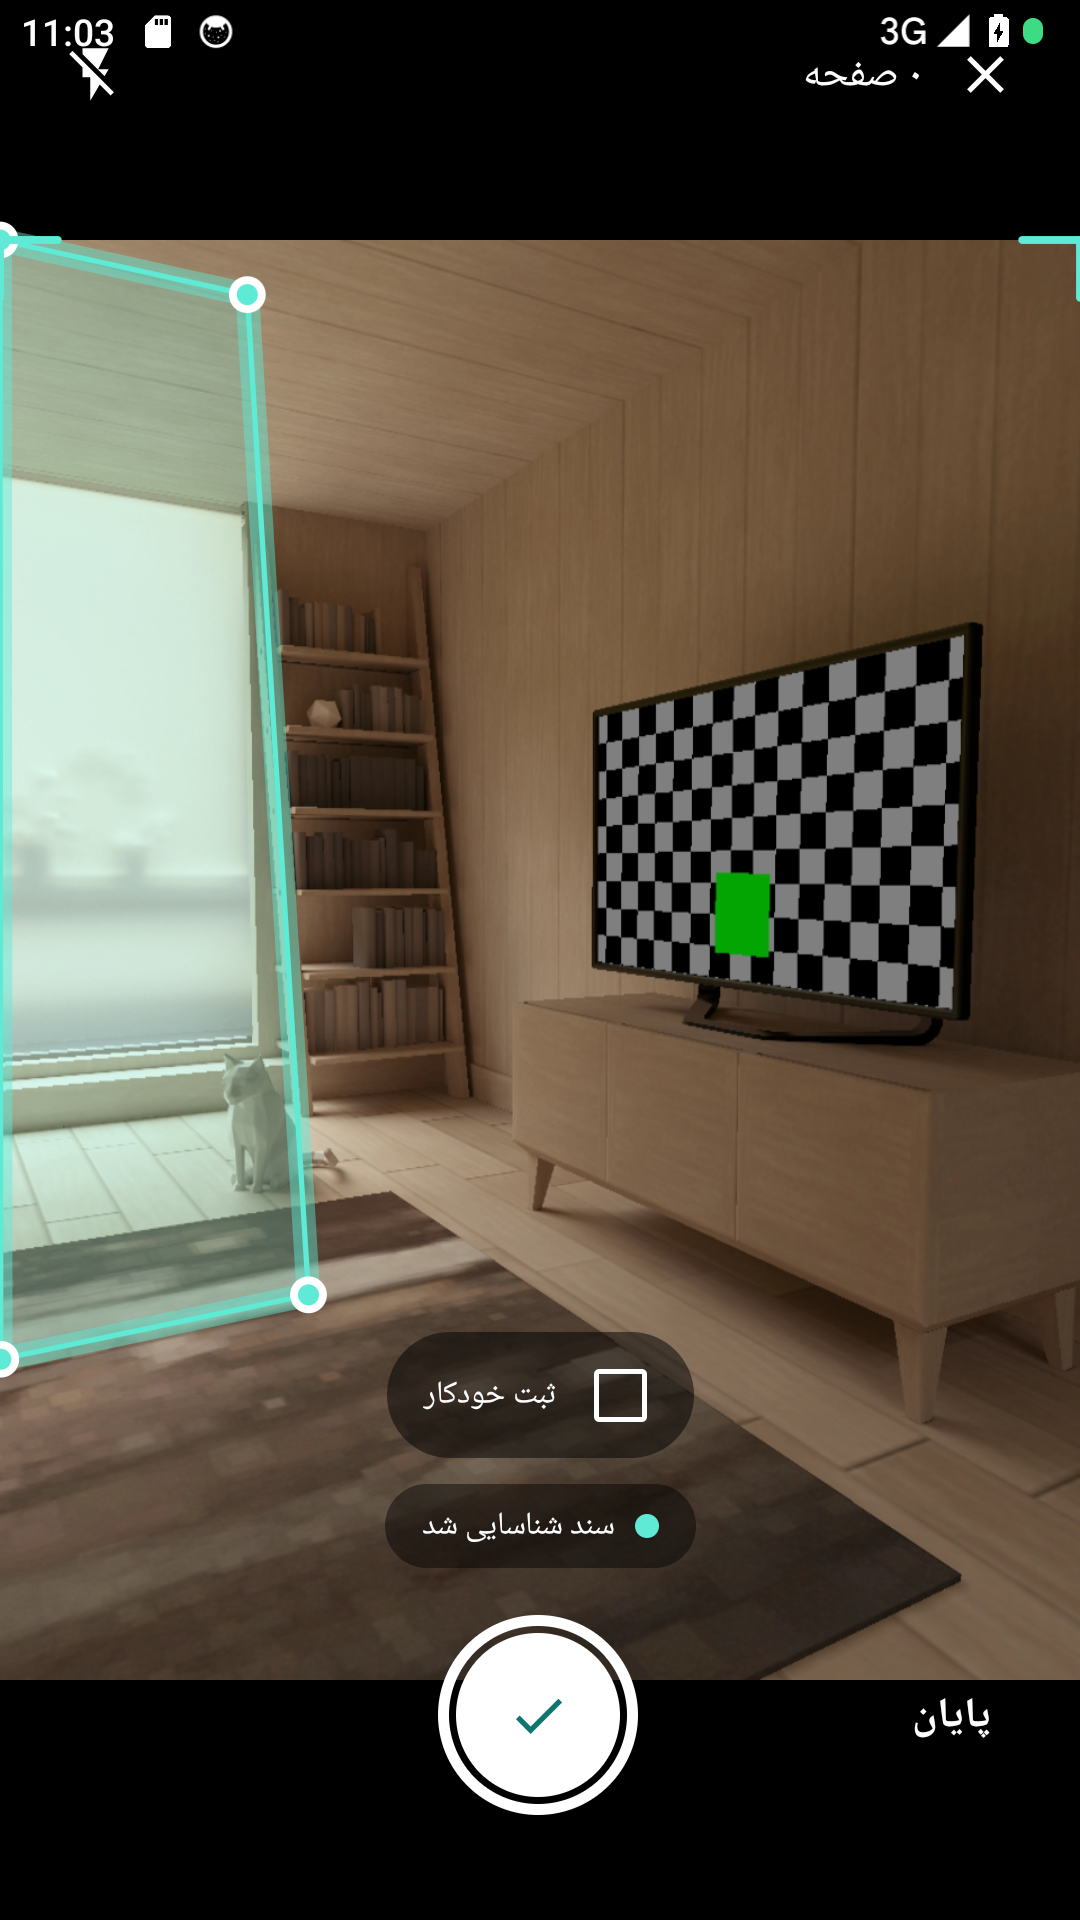
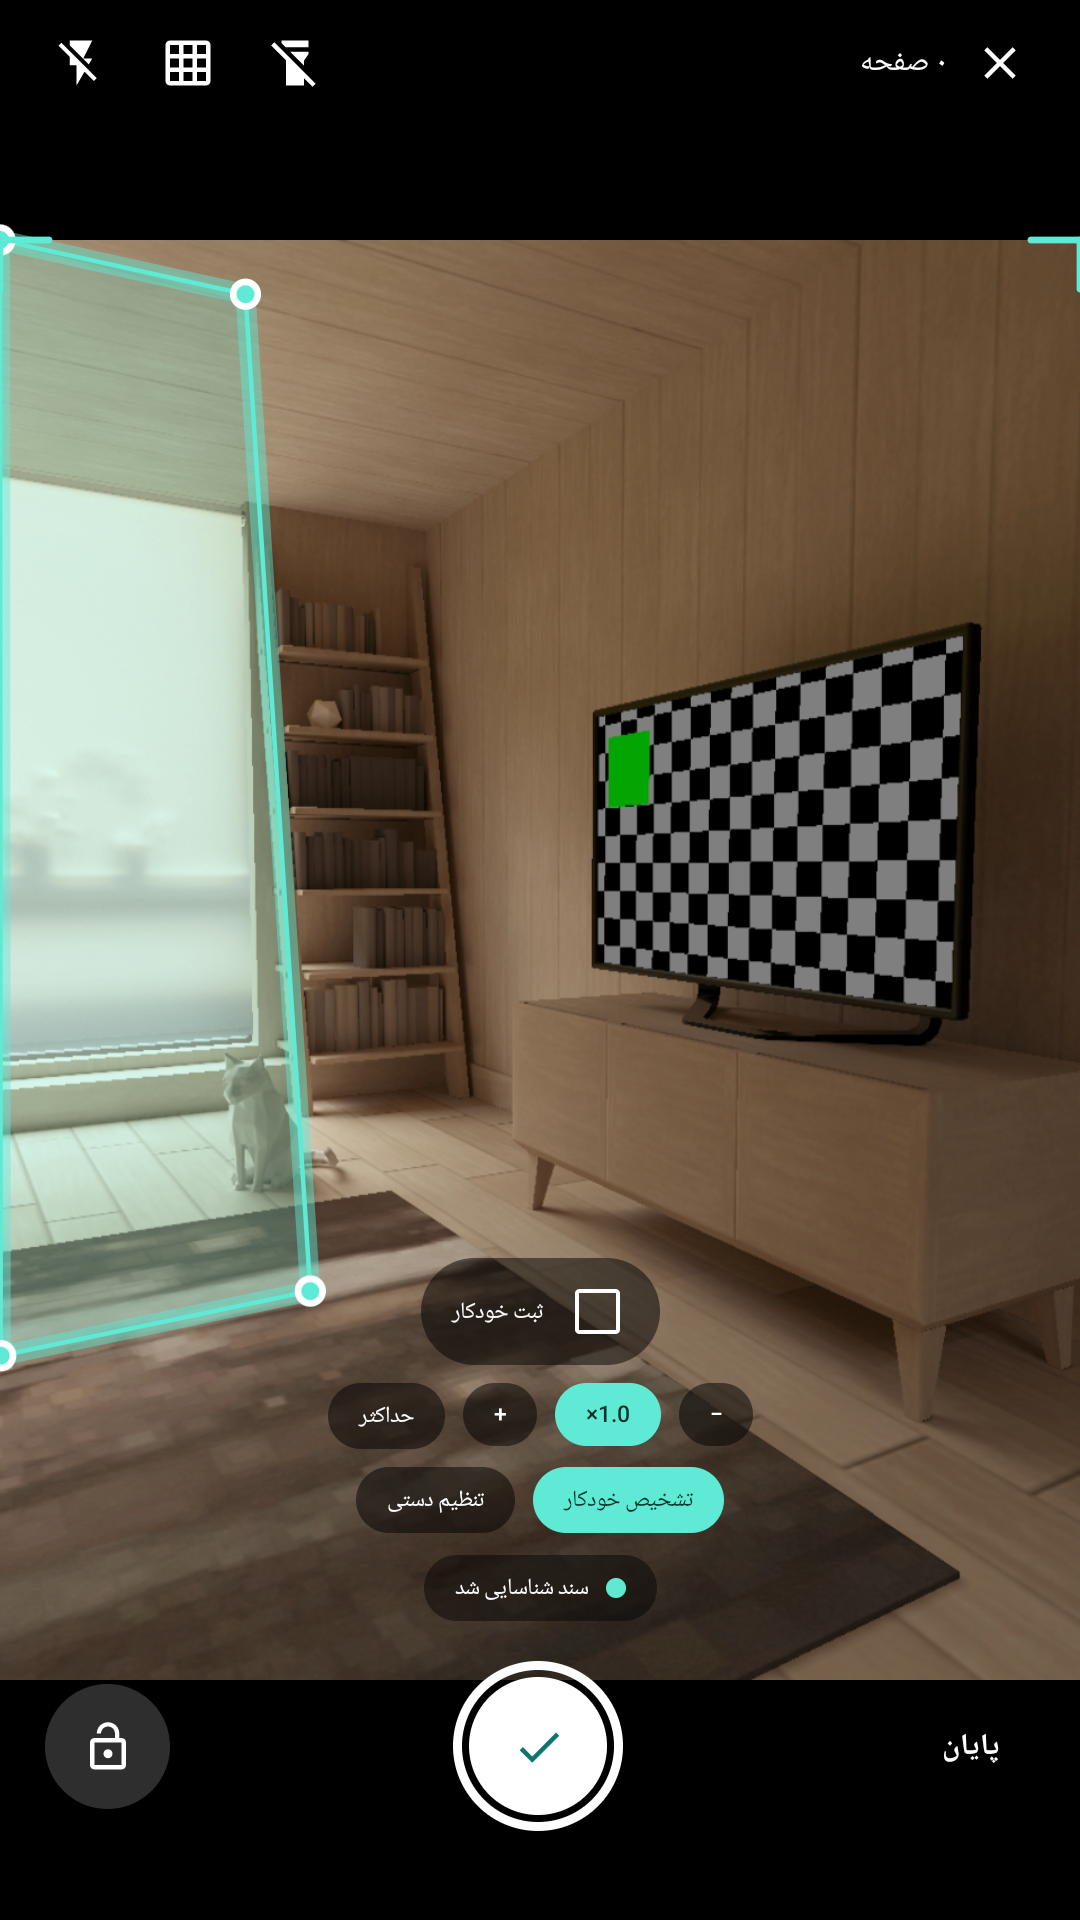
feat: camera zoom with saved level, torch, grid, freeze lock and manual modes

diff --git a/app/src/main/java/ir/scanfa/app/ui/CameraScreen.kt b/app/src/main/java/ir/scanfa/app/ui/CameraScreen.kt
@@ -39,6 +39,11 @@ import androidx.compose.material.icons.filled.AutoMode
 import androidx.compose.material.icons.filled.Check
 import androidx.compose.material.icons.filled.Close
 import androidx.compose.material.icons.filled.FlashOff
+import androidx.compose.material.icons.filled.FlashlightOn
+import androidx.compose.material.icons.filled.FlashlightOff
+import androidx.compose.material.icons.filled.GridOn
+import androidx.compose.material.icons.filled.Lock
+import androidx.compose.material.icons.filled.LockOpen
 import androidx.compose.material.icons.filled.FlashOn
 import androidx.compose.material3.Button
 import androidx.compose.material3.Checkbox
@@ -140,6 +145,11 @@ fun CameraScreen(vm: ScannerViewModel, nav: NavHostController, docId: String) {
     var frameAspect by remember { mutableFloatStateOf(1.5f) }
     var hits by remember { mutableIntStateOf(0) }
     var target by remember { mutableStateOf<List<Float>?>(null) }
+    var torchOn by remember { mutableStateOf(false) }
+    var gridOn by remember { mutableStateOf(false) }
+    var frozen by remember { mutableStateOf(false) }
+    var zoomRatio by remember { mutableFloatStateOf(vm.prefs.cameraZoom) }
+    var maxZoom by remember { mutableFloatStateOf(4f) }
 
     val camera = remember {
         LifecycleCameraController(context).apply {
@@ -167,9 +177,47 @@ fun CameraScreen(vm: ScannerViewModel, nav: NavHostController, docId: String) {
         }
     }
 
-    LaunchedEffect(manualMode) {
-        analyzer.enabled = !manualMode
-        if (manualMode) liveQuad = null
+    LaunchedEffect(manualMode, frozen) {
+        analyzer.enabled = !manualMode && !frozen
+        if (manualMode || frozen) liveQuad = null
+    }
+
+    DisposableEffect(camera) {
+        val observer = androidx.lifecycle.Observer<androidx.camera.core.ZoomState> { state ->
+            maxZoom = state.maxZoomRatio
+            zoomRatio = state.zoomRatio
+        }
+        try {
+            camera.zoomState.observe(lifecycleOwner, observer)
+        } catch (t: Throwable) {
+            // نادیدهگرفتنی
+        }
+        onDispose {
+            try {
+                camera.zoomState.removeObserver(observer)
+            } catch (t: Throwable) {
+                // نادیدهگرفتنی
+            }
+        }
+    }
+
+    LaunchedEffect(Unit) {
+        try {
+            camera.setZoomRatio(vm.prefs.cameraZoom)
+        } catch (t: Throwable) {
+            // نادیدهگرفتنی
+        }
+    }
+
+    fun applyZoom(value: Float) {
+        val targetZoom = value.coerceIn(1f, maxZoom.coerceAtLeast(1f))
+        zoomRatio = targetZoom
+        vm.prefs.cameraZoom = targetZoom
+        try {
+            camera.setZoomRatio(targetZoom)
+        } catch (t: Throwable) {
+            // نادیدهگرفتنی
+        }
     }
 
     val executor = remember { Executors.newSingleThreadExecutor() }
@@ -249,7 +297,7 @@ fun CameraScreen(vm: ScannerViewModel, nav: NavHostController, docId: String) {
     }
 
     LaunchedEffect(hits, autoCapture, capturing) {
-        if (autoCapture && !manualMode && !capturing && hits >= 5) {
+        if (autoCapture && !manualMode && !frozen && !capturing && hits >= 5) {
             hits = 0
             capture()
         }
@@ -278,6 +326,18 @@ fun CameraScreen(vm: ScannerViewModel, nav: NavHostController, docId: String) {
             )
         }
 
+        if (gridOn) {
+            Canvas(Modifier.fillMaxSize()) {
+                val c = Color.White.copy(alpha = 0.28f)
+                val w = size.width
+                val h = size.height
+                drawLine(c, Offset(w / 3f, 0f), Offset(w / 3f, h), 1.dp.toPx())
+                drawLine(c, Offset(w * 2f / 3f, 0f), Offset(w * 2f / 3f, h), 1.dp.toPx())
+                drawLine(c, Offset(0f, h / 3f), Offset(w, h / 3f), 1.dp.toPx())
+                drawLine(c, Offset(0f, h * 2f / 3f), Offset(w, h * 2f / 3f), 1.dp.toPx())
+            }
+        }
+
         Row(
             modifier = Modifier
                 .fillMaxWidth()
@@ -292,12 +352,35 @@ fun CameraScreen(vm: ScannerViewModel, nav: NavHostController, docId: String) {
                 }
                 Text("${DateFa.fa(shots)} صفحه", color = Color.White)
             }
-            IconButton(onClick = { flashOn = !flashOn }) {
-                Icon(
-                    if (flashOn) Icons.Filled.FlashOn else Icons.Filled.FlashOff,
-                    contentDescription = "فلش",
-                    tint = if (flashOn) Color(0xFFFBBF24) else Color.White
-                )
+            Row(verticalAlignment = Alignment.CenterVertically) {
+                IconButton(onClick = {
+                    torchOn = !torchOn
+                    try {
+                        camera.enableTorch(torchOn)
+                    } catch (t: Throwable) {
+                        // چراغ در دسترس نیست
+                    }
+                }) {
+                    Icon(
+                        if (torchOn) Icons.Filled.FlashlightOn else Icons.Filled.FlashlightOff,
+                        contentDescription = "چراغ قوه",
+                        tint = if (torchOn) Color(0xFFFBBF24) else Color.White
+                    )
+                }
+                IconButton(onClick = { gridOn = !gridOn }) {
+                    Icon(
+                        Icons.Filled.GridOn,
+                        contentDescription = "خطوط راهنما",
+                        tint = if (gridOn) Color(0xFF5EEAD4) else Color.White
+                    )
+                }
+                IconButton(onClick = { flashOn = !flashOn }) {
+                    Icon(
+                        if (flashOn) Icons.Filled.FlashOn else Icons.Filled.FlashOff,
+                        contentDescription = "فلش",
+                        tint = if (flashOn) Color(0xFFFBBF24) else Color.White
+                    )
+                }
             }
         }
 
@@ -335,6 +418,13 @@ fun CameraScreen(vm: ScannerViewModel, nav: NavHostController, docId: String) {
                 }
             }
 
+            Spacer(Modifier.height(8.dp))
+            Row(horizontalArrangement = Arrangement.spacedBy(8.dp)) {
+                ModeChip("−", false) { applyZoom(zoomRatio - 0.5f) }
+                ModeChip("${String.format("%.1f", zoomRatio)}×", true) { applyZoom(1f) }
+                ModeChip("+", false) { applyZoom(zoomRatio + 0.5f) }
+                ModeChip("حداکثر", false) { applyZoom(maxZoom) }
+            }
             Spacer(Modifier.height(8.dp))
             Row(horizontalArrangement = Arrangement.spacedBy(8.dp)) {
                 ModeChip("تشخیص خودکار", !manualMode) {
@@ -386,7 +476,28 @@ fun CameraScreen(vm: ScannerViewModel, nav: NavHostController, docId: String) {
                     }
                 }
 
-                Spacer(Modifier.width(56.dp))
+                Box(
+                    Modifier
+                        .size(56.dp)
+                        .background(
+                            if (frozen) Color(0xFF5EEAD4) else Color.White.copy(alpha = 0.18f),
+                            CircleShape
+                        )
+                        .pressClick {
+                            frozen = !frozen
+                            if (frozen) {
+                                autoCapture = false
+                                vm.postMessage("تصویر قفل شد؛ حالا با دکمهٔ عکس بگیر.")
+                            }
+                        },
+                    contentAlignment = Alignment.Center
+                ) {
+                    Icon(
+                        if (frozen) Icons.Filled.Lock else Icons.Filled.LockOpen,
+                        contentDescription = "قفل تصویر",
+                        tint = if (frozen) Color(0xFF00322B) else Color.White
+                    )
+                }
             }
         }
     }

diff --git a/app/src/main/java/ir/scanfa/app/data/Prefs.kt b/app/src/main/java/ir/scanfa/app/data/Prefs.kt
@@ -64,6 +64,11 @@ class Prefs(context: Context) {
         get() = sp.getBoolean("season_effects", true)
         set(value) = sp.edit().putBoolean("season_effects", value).apply()
 
+    /** آخرین بزرگنمایی دوربین */
+    var cameraZoom: Float
+        get() = sp.getFloat("camera_zoom", 1f).coerceIn(1f, 8f)
+        set(value) = sp.edit().putFloat("camera_zoom", value.coerceIn(1f, 8f)).apply()
+
     /** قفل برنامه با رمز ۶ رقمی */
     var lockEnabled: Boolean
         get() = sp.getBoolean("lock_enabled", false)
